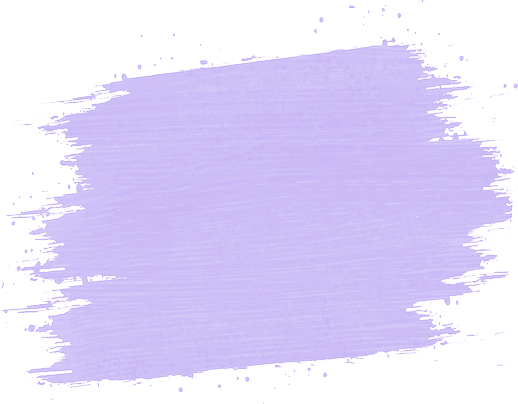
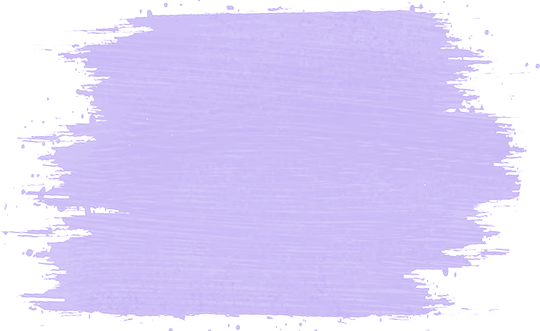
Even out the brush highlights
Straighten the tilted brush, crop it to its even body, and keep the
ragged ends a fixed size so every phrase is covered the same way.

Claude-Session: https://claude.ai/code/session_011Q9ucsexZtS7EaihkxWPMo

diff --git a/styles.css b/styles.css
@@ -136,10 +136,14 @@ h2 {
 
 /* lilac dry brush highlight behind a few key words (an image, no gradient) */
 mark.hl {
-  background: url("/assets/brush-lilac.png?v=3") center / 100% 100% no-repeat;
+  background: none;
   color: var(--ink);
-  padding: .04em .22em 0;
-  margin: 0 -.17em;
+  /* ragged brush ends keep a fixed size, only the even middle stretches */
+  border: 0 solid transparent;
+  border-width: 0 .4em;
+  border-image: url("/assets/brush-lilac.png?v=4") 0 110 fill / 0 .4em stretch;
+  padding: .04em 0 0;
+  margin: 0 -.34em;
   -webkit-box-decoration-break: clone;
   box-decoration-break: clone;
 }
